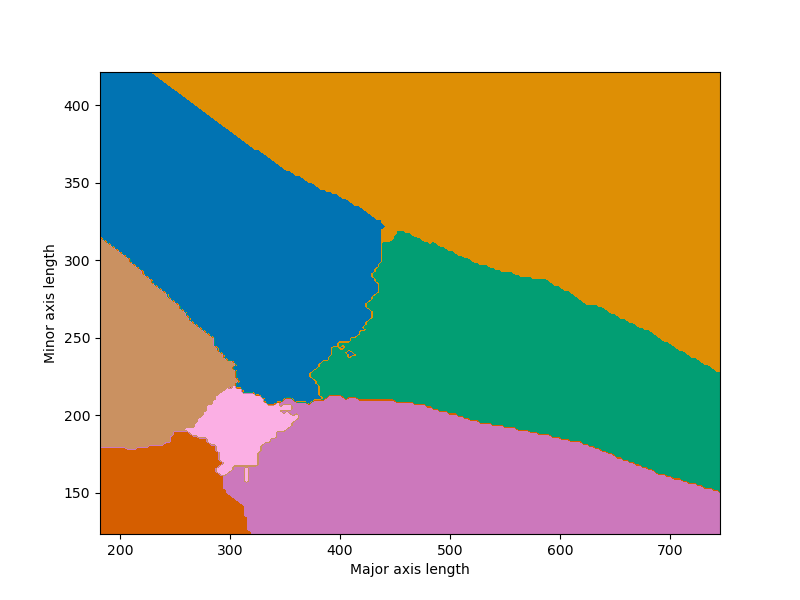
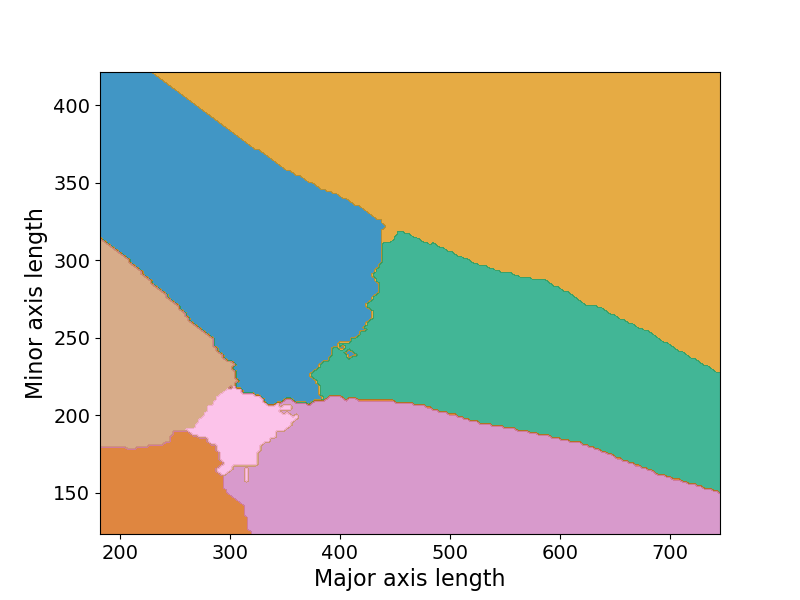
Incorporate Aimee's comments

diff --git a/kNNBeansImageGen.py b/kNNBeansImageGen.py
@@ -7,7 +7,7 @@ Created on Wed Nov 16 10:50:17 2022
 import streamlit as st
 #import needed packages for classification
 from sklearn.neighbors import KNeighborsClassifier
-import pandas as pd
+import pandas as pd   #### not needed ####
 import numpy as np
 from sklearn.preprocessing import StandardScaler
 
@@ -20,15 +20,14 @@ from matplotlib.colors import ListedColormap
 #import packages for evaluation
 from sklearn.model_selection import train_test_split
 from sklearn import metrics
-#from mlxtend.plotting import plot_decision_regions
+# from mlxtend.plotting import plot_decision_regions
 
 @st.cache
 def loadData():
     # Read data, clean up names
-
     beans = pd.read_csv("Dry_Bean_Dataset.csv")
     beans['Class'] = beans['Class'].str.capitalize()
-    beans = beans.sample(1000, random_state = 20221116)
+    beans = beans.sample(1000, random_state=20221116)
     return beans
 
 @st.cache
@@ -43,7 +42,7 @@ def doSplitAndScale(beans):
         X = beans[["MajorAxisLength", "MinorAxisLength"]]
         y = beans[["Class"]]
         X_train, X_test, y_train, y_test = train_test_split(X, y, test_size=0.3,
-                                                            random_state = 20221116)
+                                                            random_state=20221116)
         scaler = StandardScaler()
         X_train_scaled = scaler.fit_transform(X_train)
         X_test_scaled = scaler.transform(X_test)
@@ -51,8 +50,8 @@ def doSplitAndScale(beans):
 
         return X_train, X_test, y_train, y_test, scaler, X_train_scaled, X_test_scaled, le
 
-#@st.cache
-def plot_classification_regions(X, y, classifier, scaler, le, with_data = False):
+# @st.cache
+def plot_classification_regions(X, y, classifier, scaler, le, nbrs, with_data=False):  #######################
 
     #Define function for the plot.
     # X - two feature data frame,
@@ -76,34 +75,47 @@ def plot_classification_regions(X, y, classifier, scaler, le, with_data = False)
     Z = le.transform(Z)
     Z = Z.reshape(xx.shape)
     numClasses = len(le.classes_)
+    plt.rc('axes', labelsize=16)
+    plt.rc('xtick', labelsize=14)
+    plt.rc('ytick', labelsize=14)
+    plt.rc('legend', fontsize=14)
     #Plot the regions classified as different beans
     fig, ax = plt.subplots(figsize=(8,6))
     plt.contourf(xx, yy, Z, levels=[i-0.5 for i in range(numClasses+1)],
-                 cmap=ListedColormap(sns.color_palette("colorblind",
-                 as_cmap=False, n_colors=numClasses)))
+                cmap=ListedColormap(sns.color_palette("colorblind",
+                as_cmap=False, n_colors=numClasses)), alpha = 0.75)
     plt.xlabel("Major axis length")
     plt.ylabel("Minor axis length")
 
     if with_data:
         p1 = sns.scatterplot(data=X, x=X.columns[0], y=X.columns[1],
-                             hue=le.transform(np.ravel(y)), palette="colorblind",
-                    alpha=1, edgecolor="black",style=le.transform(np.ravel(y)),)
+                hue=le.transform(np.ravel(y)), palette="colorblind",
+                alpha=1, edgecolor="black",style=le.transform(np.ravel(y)),)
         leg = p1.legend()
-        leg.set_title("Variety")
+        leg.set_title("Variety",prop={'size':16})
         for t, l in zip(leg.texts, le.inverse_transform(range(7))):
             t.set_text(l)
+    plt.savefig("imagesKnnBeans/kNNBeans" + str(nbrs) + str(with_data) + ".png") ################ used to save images ##########
     return fig, ax
 
-beans = loadData()
+hide = """
+        <style>
+        #MainMenu {visibility: hidden;}
+        footer {visibility: hidden;}
+        header {visibility: hidden;}
+        body {overflow: hidden;}
+        div.block-container {padding-top:1rem;}
+        div.block-container {padding-bottom:1rem;}
+        </style>
+        """
 
-X_train, X_test, y_train, y_test, scaler, X_train_scaled, X_test_scaled, le = doSplitAndScale(beans)
+st.markdown(hide, unsafe_allow_html=True)
 
-
-
+beans = loadData() #### not needed ####
+X_train, X_test, y_train, y_test, scaler, X_train_scaled, X_test_scaled, le = doSplitAndScale(beans)  #### not needed ##############
+#accrcyTrainDict = {1 : 0.8333, 3 : 0.85, 5 : 0.8367, 7 : 0.8367, 9 : 0.8533, 11:  0.8467, 13:  0.8567, 15:  0.8567, 17:  0.8567, 19:  0.8567, 21:  0.86} 
+#accrcyTestDict = {1 : 0.8333, 3 : 0.85, 5 : 0.8367, 7 : 0.8367, 9 : 0.8533, 11:  0.8467, 13:  0.8567, 15:  0.8567, 17:  0.8567, 19:  0.8567, 21:  0.86} 
 col1, col2 = st.columns([2,4])
-
-
-
 with col1:
     nbrs = st.slider(
         "k",
@@ -115,17 +127,24 @@ with col1:
 
     beanKnnClassifier = KNeighborsClassifier(n_neighbors=nbrs )
     beanKnnClassifier.fit(X_train_scaled, np.ravel(y_train))
+    
     y_pred = beanKnnClassifier.predict(X_test_scaled)
+    accuracyTest = metrics.accuracy_score(y_test, y_pred)
 
-    accuracy = metrics.accuracy_score(y_test, y_pred)
-    precision = metrics.precision_score(y_test, y_pred)
-    recall = metrics.recall_score(y_test, y_pred)
+    y_pred = beanKnnClassifier.predict(X_train_scaled)
+    accuracyTrain = metrics.accuracy_score(y_train, y_pred)
+    # precision = metrics.precision_score(y_test, y_pred)
+    # recall = metrics.recall_score(y_test, y_pred)
 
-    st.write("Accuracy on test set=", round(accuracy,4))
+    st.write("Accuracy on training set=", round(accuracyTrain,4))
+    st.write("Accuracy on test set=", round(accuracyTest,4))
+    #st.write("Accuracy on test set=", accrcydict[nbrs])
+    print(nbrs, round(accuracyTrain,4))  ######### used to make accrcydict ####################
+    print(nbrs, round(accuracyTest,4))  ######### used to make accrcydict ####################
     # st.write("Precision = ", round(precision, 4))
     # st.write("Recall =", round(recall, 4))
 
-    st.write(metrics.confusion_matrix(y_test, y_pred))
+    # st.write(metrics.confusion_matrix(y_test, y_pred))
 
     hidePts = st.checkbox("Hide training data")
 
@@ -133,22 +152,19 @@ with col1:
 
 
 with col2:
-    beanSample = beans.sample(750, random_state=20220509)
-    X = beanSample[["MajorAxisLength", "MinorAxisLength"]]
-    y = beanSample[["Class"]]
+    #beanSample = beans.sample(750, random_state=20220509)
+    #X = beanSample[["MajorAxisLength", "MinorAxisLength"]]
+    #y = beanSample[["Class"]]
     if not textOption:
-
-
         fig, ax = plot_classification_regions(X_train, y_train,
                                                 beanKnnClassifier, scaler, le,
-                                                with_data = not hidePts)
-        st.pyplot(fig)
-
+                                                nbrs, with_data=not hidePts) ############ needed nbrs attr, then don't need fig and ax ##########
+        st.pyplot(fig)   ################## don't generate plots  #####################
+        #st.image("imagesKnnBeans/kNNBeans" + str(nbrs) + str(not hidePts)+ ".png") ############## show images ###############
     else:
         st.markdown('''The plot has MajorAxisLength on the horizontal axis and varies
-                      between 190 and 730 and a has MinorAxisLength on the vertical axis
+                      between 190 and 730 and has MinorAxisLength on the vertical axis
                       and varies between 135 to 420.''')
-
         if not hidePts:
             st.markdown('''The points are mostly clustered along the diagonal
                   from the lower left corner (190,135) to the upper right corner (420, 730).
@@ -188,5 +204,5 @@ with col2:
 
 * Bombay beans - above the line between (250, 420) and (730, 250)
 
-
+The boundaries near the diagonal for the regions vary some with k, but the center of each region does not change for different values of k.
 ''')

diff --git a/kNNBeans.py b/kNNBeans.py
@@ -109,7 +109,8 @@ st.markdown(hide, unsafe_allow_html=True)
 
 # beans = loadData() #### not needed ####
 # X_train, X_test, y_train, y_test, scaler, X_train_scaled, X_test_scaled, le = doSplitAndScale(beans)  #### not needed ##############
-accrcydict = {1 : 0.8333, 3 : 0.85, 5 : 0.8367, 7 : 0.8367, 9 : 0.8533, 11:  0.8467, 13:  0.8567, 15:  0.8567, 17:  0.8567, 19:  0.8567, 21:  0.86} 
+accrcyTestdict = {1 : 0.8333, 3 : 0.85, 5 : 0.8367, 7 : 0.8367, 9 : 0.8533, 11:  0.8467, 13:  0.8567, 15:  0.8567, 17:  0.8567, 19:  0.8567, 21:  0.86} 
+accrcyTraindict = {1 : 1  , 3 : 0.9186, 5 : 0.9029, 7 : 0.8957, 9 : 0.8943, 11:  0.8886, 13:  0.8914, 15:  0.8814, 17:  0.8829, 19:  0.8871, 21:  0.8886} 
 col1, col2 = st.columns([2,4])
 with col1:
     nbrs = st.slider(
@@ -129,7 +130,8 @@ with col1:
     # recall = metrics.recall_score(y_test, y_pred)
 
     # st.write("Accuracy on test set=", round(accuracy,4))
-    st.write("Accuracy on test set=", accrcydict[nbrs])
+    st.write("Accuracy on training set=", accrcyTraindict[nbrs])
+    st.write("Accuracy on test set=", accrcyTestdict[nbrs])
     # print(nbrs, round(accuracy,4))  ######### used to make accrcydict ####################
     # st.write("Precision = ", round(precision, 4))
     # st.write("Recall =", round(recall, 4))
@@ -194,5 +196,5 @@ with col2:
 
 * Bombay beans - above the line between (250, 420) and (730, 250)
 
-
+The boundaries for the regions that are away from the diagonal vary some with k, but the center of each region does not change for different values of k.
 ''')
